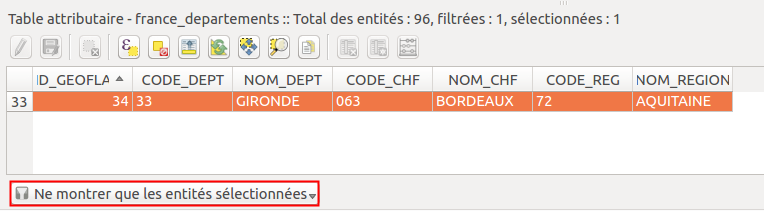
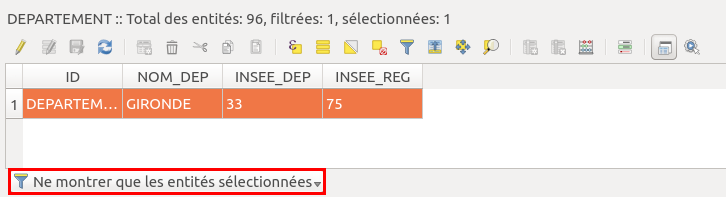
corrections utilisateurs

Changed region(s): [[0.0, 0.1523, 1.0, 0.6091], [0.0, 0.8223, 1.0, 1.0], [0.0, 0.0609, 0.8182, 0.1523]]

diff --git a/03_01_donnees_internet.php b/03_01_donnees_internet.php
@@ -41,7 +41,7 @@
 			
 				<h4><a class="titre" id="III11a">Avec l'IGN</a></h4>
 				
-					<p>L'IGN (Institut National de l'Information Géographique et Forestière) diffuse gratuitement une partie de ses données ici : <a class="ext" target="_blank" href="http://professionnels.ign.fr/donnees">http://professionnels.ign.fr/donnees</a>.</p>
+					<p>L'IGN (Institut National de l'Information Géographique et Forestière) diffuse gratuitement une partie de ses données ici : <a class="ext" target="_blank" href="https://geoservices.ign.fr/documentation/diffusion/telechargement-donnees-libres.html">https://geoservices.ign.fr/documentation/diffusion/telechargement-donnees-libres.html</a>.</p>
 					<p class="note">Si vous êtes étudiant ou bien si vous travaillez dans un laboratoire de recherche, il existe peut-être entre votre structure et l'IGN une convention recherche et enseignement vous donnant accès à plus de données !</p>
 					<p>Nous allons ici télécharger les communes de la Guyane.</p>
 					<div class="manip">
@@ -50,18 +50,18 @@
 								<img src="illustrations/tous/3_1_ign_telechargement.png" alt="page de téléchargement des données IGN" width="90%">
 							</a>
 						</figure>
-					   <p>Sur la page internet <a class="ext" target="_blank" href="http://professionnels.ign.fr/donnees">http://professionnels.ign.fr/donnees</a>, dans la rubrique <b>Les bases de données au format vectoriel</b> &#8594; <b>libre et gratuit</b>, cliquez sur <a class="ext" target="_blank" href="http://professionnels.ign.fr/adminexpress">Admin Express (et GEOFLA®)</a>.</p>
+					   <p>Sur la page internet <a class="ext" target="_blank" href="https://geoservices.ign.fr/documentation/diffusion/telechargement-donnees-libres.html">https://geoservices.ign.fr/documentation/diffusion/telechargement-donnees-libres.html</a>, cliquez sur <a class="ext" target="_blank" href="https://geoservices.ign.fr/documentation/diffusion/telechargement-donnees-libres.html#admin-express">ADMIN-EXPRESS</a>.</p>
 					</div>
-					   <p>La base ADMIN EXPRESS contient des couches de régions, départements, arrondissements, EPCI, communes et chef-lieux pour la France métropolitaine et ultra-marine. Elle remplace la base GEOFLA® qui n'est plus mise à jour (cf. <a class="ext" target="_blank" href="http://professionnels.ign.fr/adminexpresscog" >http://professionnels.ign.fr/adminexpresscog</a>.</p>
+					   <p>La base ADMIN EXPRESS contient des couches de régions, départements, arrondissements, EPCI, communes et chef-lieux pour la France métropolitaine et ultra-marine. Elle remplace la base GEOFLA® qui n'est plus mise à jour et dont la dernière édition est celle de 2016.</p>
 					<div class="manip">
 					   <figure>
 							<a href="illustrations/tous/3_1_ign_telechargement_2.png" >
 								<img src="illustrations/tous/3_1_ign_telechargement_2.png" alt="page de téléchargement des données ADMIN EXPRESS (IGN)" width="90%">
 							</a>
 						</figure>
-						<p>Dans l'onglet <b>ADMIN-EXPRESS</b>, téléchargez les données <b>ADMIN EXPRESS par territoire</b>.</p>
+						<p>Téléchargez la dernière édition des données <b>ADMIN EXPRESS par territoire</b> (ici celle de mars 2020).</p>
 						<p>Dézippez le fichier téléchargé (vous pouvez par exemple utiliser <a class="ext" target="_blank" href="https://www.7-zip.org/">7-zip</a>).</p>
-						<p>A partir de l'explorateur de fichiers de QGIS, ajoutez la couche <em class="data">COMMUNE</em> du sous-dossier <b>ADE_2-0_SHP_UTM22RGFG95_D973</b> (973 correspond au code département de la Guyane, et l'UTM 22 RGFG95 au SCR qui y est utilisé).</p>
+						<p>A partir de l'explorateur de fichiers de QGIS, ajoutez la couche <em class="data">COMMUNE</em> du sous-dossier <b>ADE_2-X_SHP_UTM22RGFG95_D973</b> (973 correspond au code département de la Guyane, et l'UTM 22 RGFG95 au SCR qui y est utilisé).</p>
 						<figure>
 							<a href="illustrations/tous/3_1_commune_guyane_explorateur.png" >
 								<img src="illustrations/tous/3_1_commune_guyane_explorateur.png" alt="ajout de la couche de communes de Guyane via l'explorateur QGIS" width="90%">
@@ -69,7 +69,7 @@
 						</figure>
 					</div>
 					
-					<p class="note">Si le téléchargement échoue, cette couche est également disponible dans le dossier <b>TutoQGIS_03_RechercheDonnees/donnees/COMMUNE.shp</b> accessible en <a href="telechargement.php" >téléchargement</a>.</p>
+					<p class="note">Si le téléchargement échoue, cette couche est également accessible <em class="data"><a href="donnees/TutoQGIS_03_RechercheDonnees.zip">en téléchargement</a></em>.</p>
 					
 					<p>Dans les données téléchargées sur le site de l'IGN se trouvent également les autres découpages administratifs pour la Guyane, ainsi que pour les autres territoires ultra-marins et la France métropolitaine.</p>
 					
@@ -128,7 +128,7 @@
 							<img src="illustrations/tous/3_1_naturalearth_telechargement_2.png" alt="téléchargement des données Natural Earth" width="70%">
 						</a>
 					 </figure>
-					 <p class="note">Si le téléchargement échoue, cette couche est également disponible dans le dossier <b>TutoQGIS_03_RechercheDonnees/donnees/COMMUNE.shp</b> accessible en <a href="telechargement.php" >téléchargement</a>.</p>
+					 <p class="note">Si le téléchargement échoue, cette couche est également accessible <em class="data"><a href="donnees/TutoQGIS_03_RechercheDonnees.zip">en téléchargement</a></em>.</p>
 					 <p>Une fois le fichier téléchargé, placez-le dans votre dossier <b>TutoQGIS_03_RechercheDonnees/donnees</b>.</p>
 					 <p>Ouvrez un nouveau projet QGIS, et à partir de l'explorateur, ajoutez la couche <em class="data">ne_110m_admin_0_countries</em>. <b>Notez qu'il n'est pas nécessaire de dézipper le fichier pour visualiser les données dans QGIS !</b> Ceci est très pratique quand on est par exemple à la recherche de données sur internet et évite de dézipper tous les fichiers et donc de se retrouver avec beaucoup de dossiers. Il faudra cependant décompresser les données pour pouvoir les éditer.</p>
 					 <figure>

diff --git a/08_02_jointure_spatiale.php b/08_02_jointure_spatiale.php
@@ -177,8 +177,8 @@
     					   <li class="espace">Couche source : <em class="data">DEPARTEMENT</em></li>
     					   <li class="espace">Joindre la couche : <em class="data">COMMUNE</em></li>
     					   <li class="espace">Prédicat géométrique : choisissez <b>contient</b>. Avec l'opérateur Intersecte, les communes limitrophes seraient également prises en compte, ce qui n'est pas souhaité ici.</li>
-    					   <li class="espace">Champs à résumer : cliquez sur le bouton <b>...</b> à droite, et choisissez un champ d'identifiant unique, ici <b>INSEE_COM</b> pour le code INSEE des communes</li>
-    					   <li class="espace">Résumés à calculer : cliquez sur le bouton <b>...</b> à droite, et cochez <b>sum</b>, <b>moyenne</b> et <b>median</b> pour calculer respectivement la somme, la moyenne et la médiane des populations communales pour chaque département</li>
+    					   <li class="espace">Champs à résumer : cliquez sur le bouton <b>...</b> à droite, et choisissez le champ <b>POPULATION</b></li>
+    					   <li class="espace">Résumés à calculer : cliquez sur le bouton <b>...</b> à droite, et cochez <b>somme</b>, <b>moyenne</b> et <b>médiane</b> pour calculer ces valeurs pour chaque département.</li>
     					   <figure>
     						<a href="illustrations/tous/8_2_choix_resumes.png" >
     							<img src="illustrations/tous/8_2_choix_resumes.png" alt="Fenêtre de choix des opérations d'agrégation : sum, moyenne et median sont cochés" width="80%" >
@@ -187,7 +187,7 @@
     					   <li class="espace">Couche issue de la jointure spatiale : laissez la valeur par défaut pour créer une couche temporaire</li>
     					   <li class="espace">Cliquez sur <b>Exécuter</b>. Attention, le temps de traitement peut être un peu long.</li>
     					</ul>
-    					<p>La couche temporaire est ajoutée à QGIS. Ses géométries sont celles des départements. Ouvrez sa table attributaire, vérifiez son contenu.</p>
+    					<p>La couche temporaire est ajoutée à QGIS. Ses géométries sont celles des départements. Ouvrez sa table attributaire, vérifiez son contenu : on connaît maintenant pour chaque département la population totale (POPULATION_sum), la population communale moyenne (POPULATION_mean) et la population communale mediane (POPULATION_median).</p>
     					<div class="question">
                     		<input type="checkbox" id="faq-3">
                     		<p><label for="faq-3">Quel est le département le moins peuplé&nbsp;?</label></p>

diff --git a/03_04_donnees_osm.php b/03_04_donnees_osm.php
@@ -52,10 +52,10 @@
                     	</a>
                     </figure>
                      <p class="note">Au cas où le téléchargement échouerait, ces données sont également disponibles ici : <b>TutoQGIS_03_RechercheDonnees/donnees/suriname-latest-free.shp.zip</b>.</p>
-                     <p>Enregistrer le fichier sur votre ordianteur, décompressez le fichier ZIP obtenu dans votre répertoire de travail : vous obtenez une série de couches au format Shapefile.</p>
+                     <p>Enregistrer le fichier sur votre ordinateur, décompressez le fichier ZIP obtenu dans votre répertoire de travail : vous obtenez une série de couches au format Shapefile.</p>
                      <p>Que contiennent ces données ? Pour le savoir, cliquez sur le lien <a class="ext" target="_blank" href="http://download.geofabrik.de/osm-data-in-gis-formats-free.pdf" >Format description PDF</a> disponible en cliquant sur <b>Suriname</b> à partir de la page où vous avez téléchargé les données.</p>
                 </div>
-                <p class="note">Notez que les noms de couches correspondante au clés des attributs OSM. Par exemple, la couche <em class="data">gis.osm_waterways_free_1</em> regroupe les éléments ayant la clé <a class="ext" target="_blank" href="http://wiki.openstreetmap.org/wiki/FR:Key:waterway">waterway</a>.</p>
+                <p class="note">Notez que les noms de couches correspondent au clés des attributs OSM. Par exemple, la couche <em class="data">gis.osm_waterways_free_1</em> regroupe les éléments ayant la clé <a class="ext" target="_blank" href="http://wiki.openstreetmap.org/wiki/FR:Key:waterway">waterway</a>.</p>
                 <div class="manip">
                      <p>Dans un nouveau projet QGIS, ajoutez ces données. Ouvrez la table attributaire de la couche <em class="data">gis.osm_waterways_free_1</em>.</p>
                      <p>Les valeurs du champ <b>fclass</b> correspondent aux différentes valeurs prises par la clé de la couche pour chaque élément. On trouve par exemple les valeurs river, stream, canal et drain.</p>

diff --git a/07_02_calculer.php b/07_02_calculer.php
@@ -36,7 +36,7 @@
 			<h3><a class="titre" id="VII21">Comment fonctionne la calculatrice de champ ?</a></h3>
 			
 				<div class="manip">
-					<p>Ouvrez un nouveau projet QGIS, ajoutez la couche <em class="data"><a href="donnees/TutoQGIS_07_Champs.zip">communes_NordPasDeCalais_calcul</a></em>. Ouvrez sa table attributaire.</p>
+					<p>Ouvrez un nouveau projet QGIS, ajoutez la couche <em class="data"><a href="donnees/TutoQGIS_07_Champs.zip">communes_Bretagne</a></em>. Ouvrez sa table attributaire.</p>
 					<p>Passez en <a href="05_02_points.php#V21">mode édition</a>. Cliquez sur l'icône <b>Ouvrir la calculatrice de champs</b> parmi les icônes de la table attributaire :</p>
 					<figure>
 						<img src="illustrations/tous/7_2_BO_table_calc.png" alt="barre d'outils de la table attributaire, avec icône de la calculatrice de champs entourée en rouge" width="450" >

diff --git a/02_00_geodesie.php b/02_00_geodesie.php
@@ -13,7 +13,7 @@
 		
 		<div class="main">
 			<h1>II.  Géodésie</h1>
-			<p>La géodésie est la science qui étudie la forme et les dimensions de la Terre. Cette deuxième partie abordera les différentes manières d'exprimer des coordonnées, et comment cela se traduit-il dans un logiciel SIG.</p>
+			<p>La géodésie est la science qui étudie la forme et les dimensions de la Terre. Cette deuxième partie abordera les différentes manières d'exprimer des coordonnées, et comment cela se traduit dans un logiciel SIG.</p>
 			<p>Notions abordées :</p>
 				<ul>
 					<li>ellipsoïde et géoïde</li>
